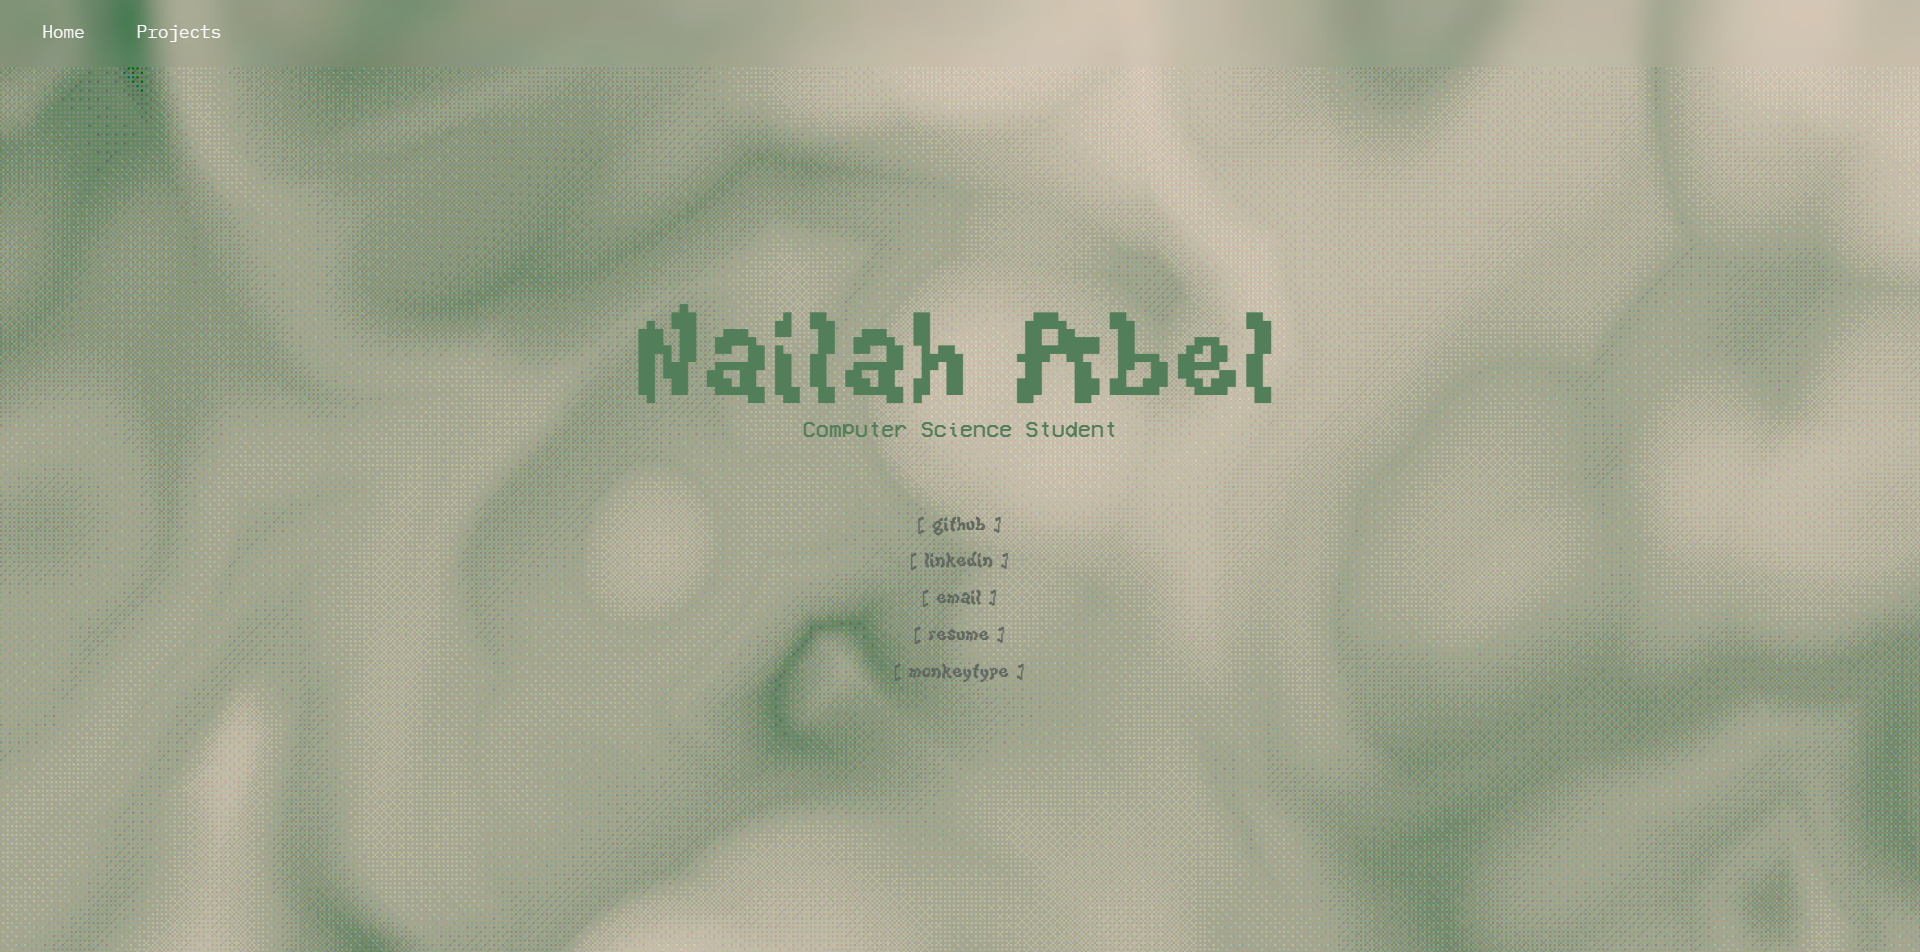
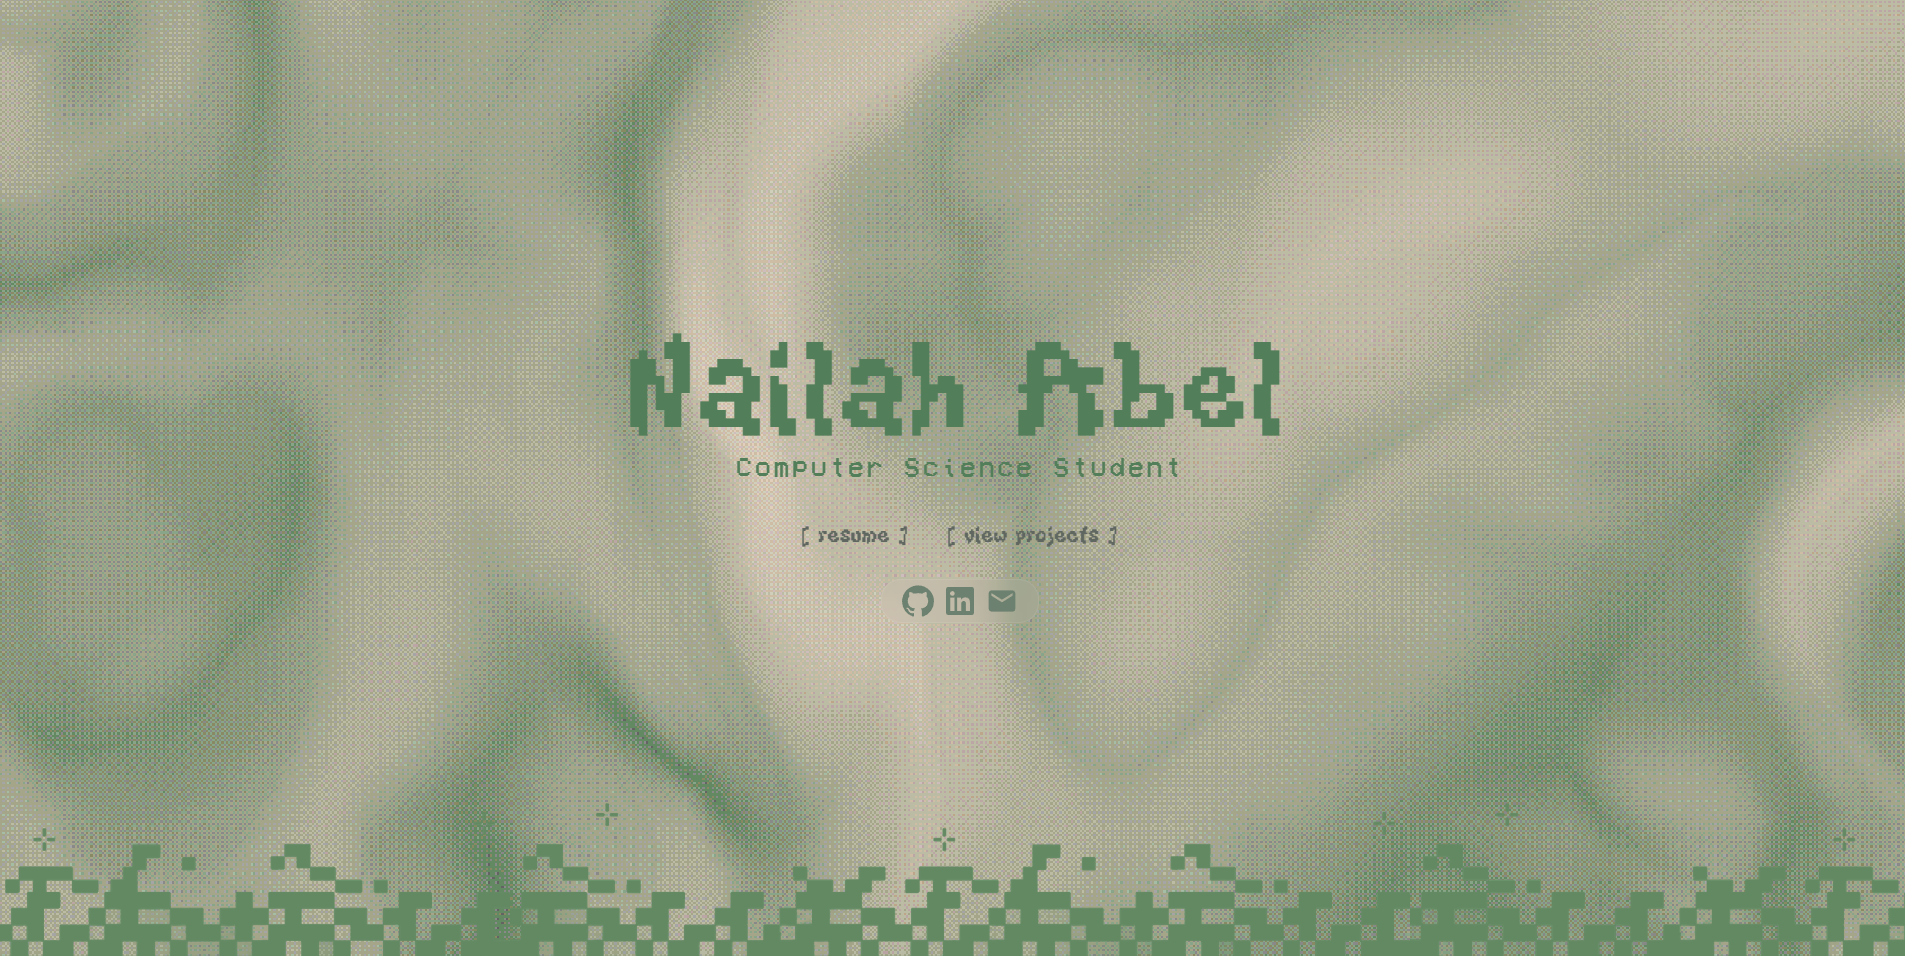
fix project pixel window sizing

diff --git a/src/Projects.css b/src/Projects.css
@@ -296,6 +296,7 @@ body {
   border: 2px  solid #274436;
   display: flex;
   flex-direction: column;
+  width: 100%;
 }
 
 .pixel-window2 {
@@ -347,8 +348,8 @@ body {
     }
 
     .pixel-window2 {
-        width: 100%;
         height: 100%;
+        width: 100%;
     }
 .projects-layout {
     padding: clamp(1.25rem, 6vw, 6rem);
@@ -387,10 +388,10 @@ body {
   }
 
   .project-images {
-    width: 100%;
-    max-width: 32rem;
-    min-height: 200px;
+    width: 70vw;
+    min-height: 10px;
     padding: 1rem 2rem;
+    align-self: center;
   }
 
   .nav-btn {

diff --git a/src/Projects.jsx b/src/Projects.jsx
@@ -15,6 +15,8 @@ const projects = [
     images: [
       "../screenshots/portfolio/1.png",
       "../screenshots/portfolio/2.png",
+      "../screenshots/portfolio/3.png",
+      "../screenshots/portfolio/4.png",
     ],
   },
   {
